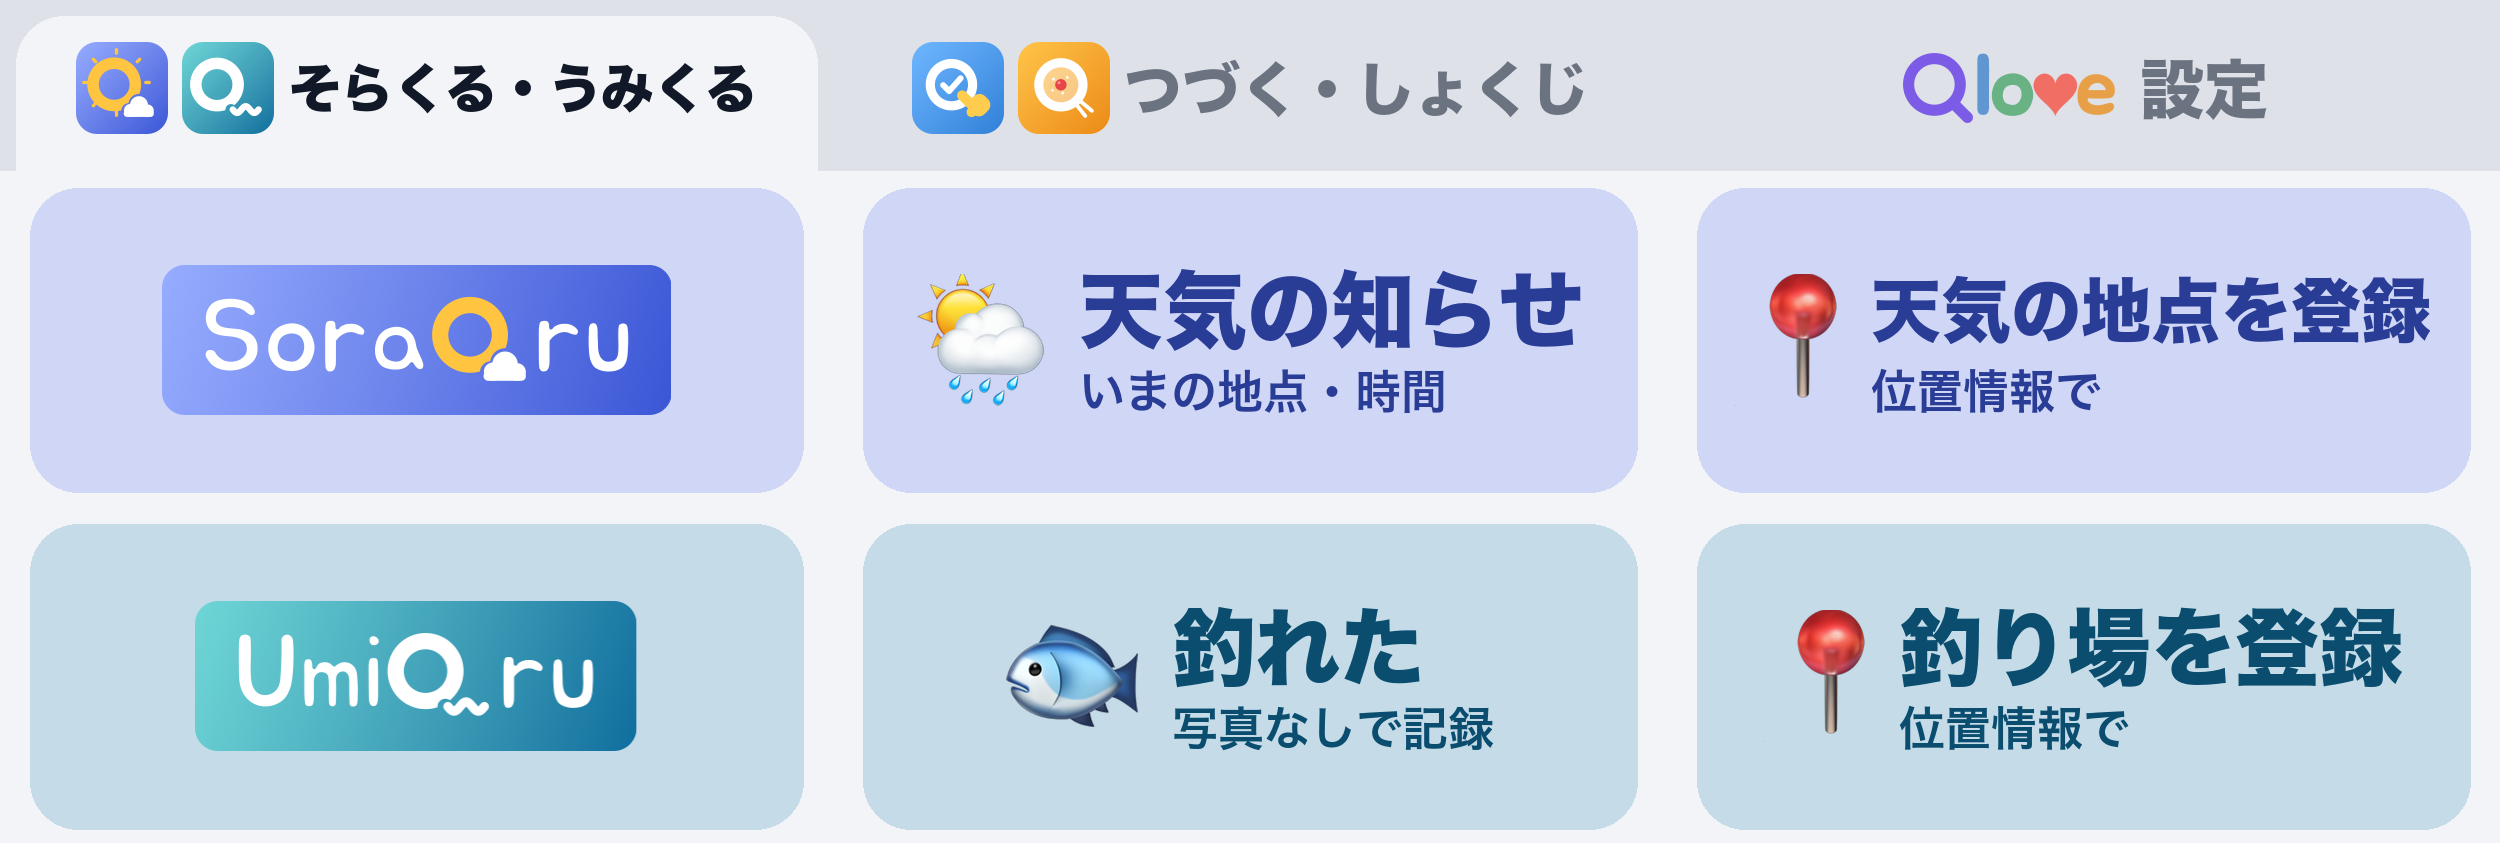
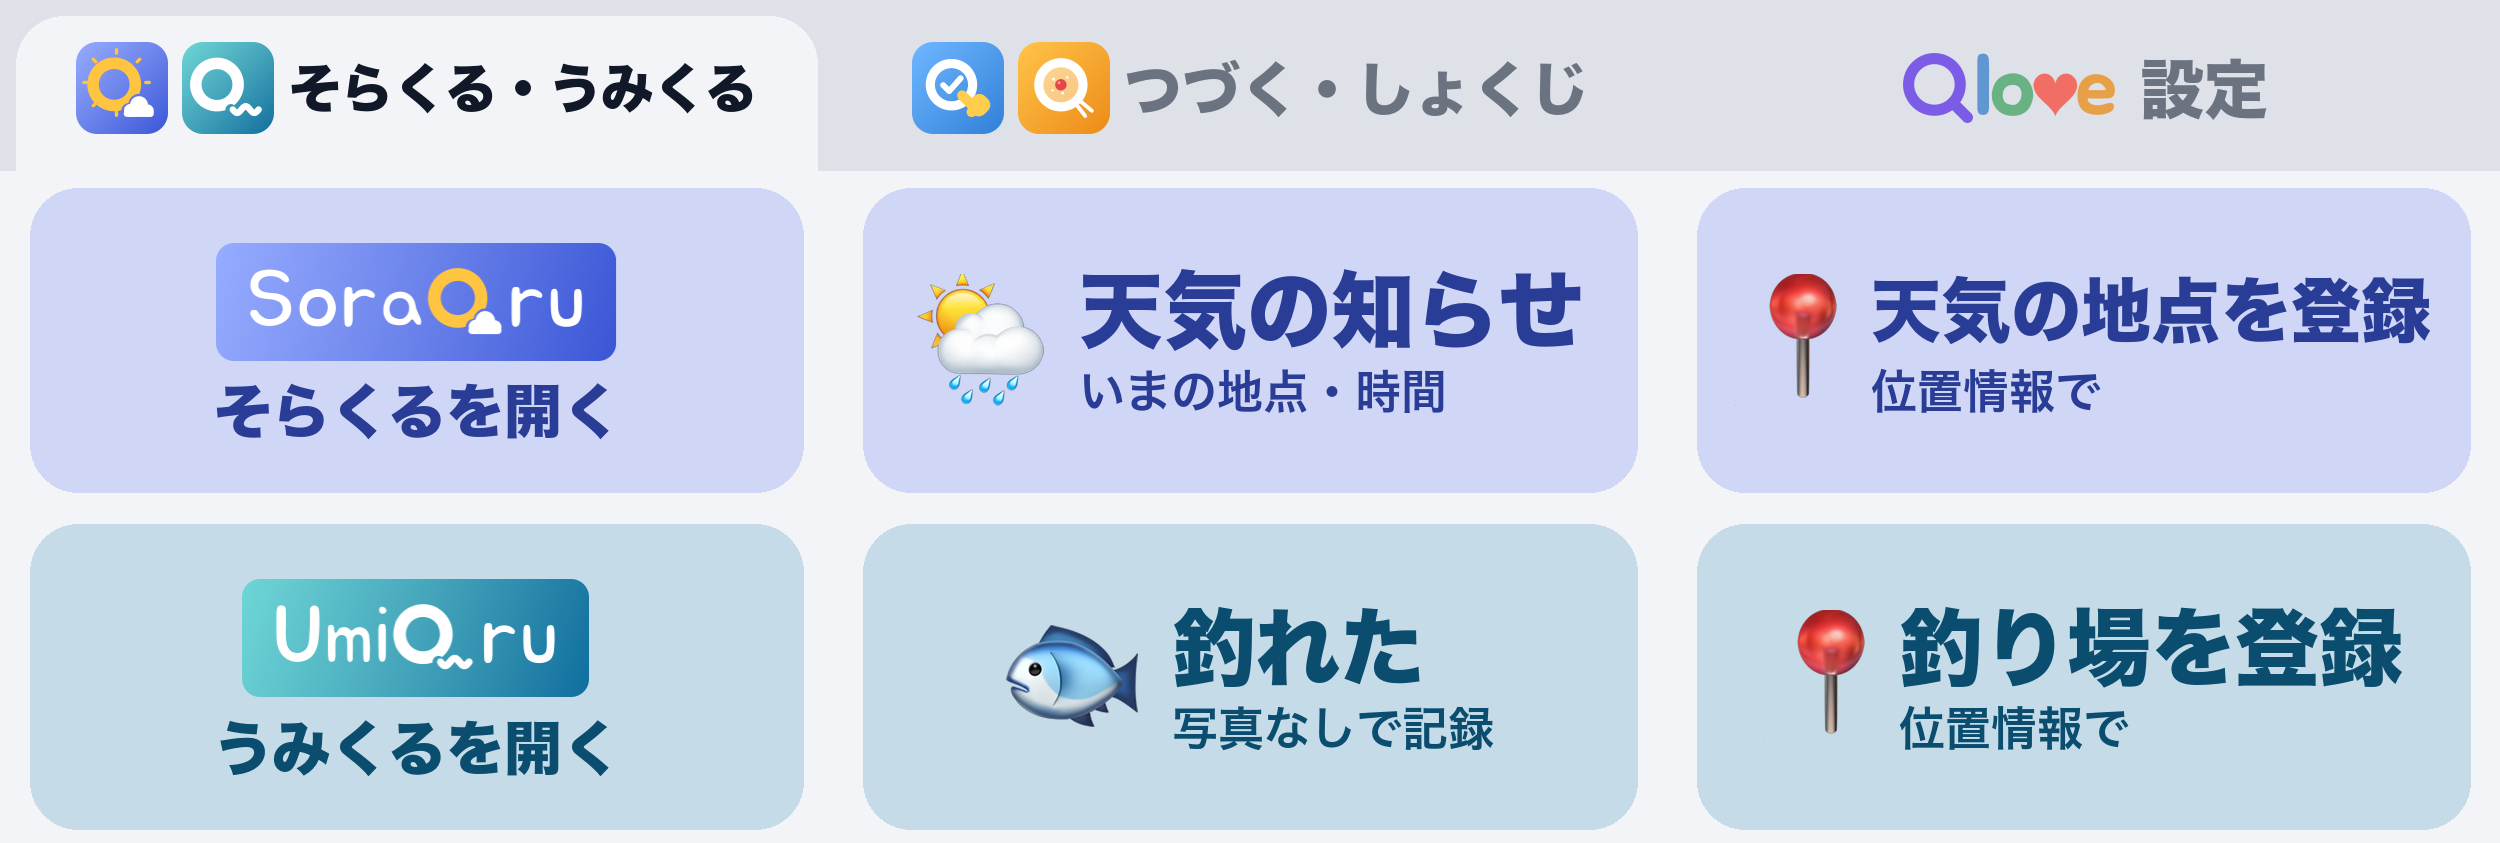
[update] くらぶボット：メニューのロゴに「○○を開く」を添え、つづく・しょくじのロゴを大きく

Changed region(s): [[0.0624, 0.2776, 0.2808, 0.5243], [0.0624, 0.6785, 0.2808, 0.9253]]

diff --git a/tools/richmenu.py b/tools/richmenu.py
@@ -138,19 +138,21 @@ def draw3(name, active, buttons):
         d.rounded_rectangle(box, radius=48, fill=PALE(APP[app]))
         if isinstance(ch, Path):
             # 絵文字のかわりにアプリの横長のロゴ（上）と、題・小さい字（下）
-            logo = svg(ch, 120)
-            if logo.width > pw - 160:
-                logo = logo.resize((int(pw - 160), int(logo.height * (pw - 160) / logo.width)), Image.LANCZOS)
-            img.alpha_composite(logo, (int(cx - logo.width / 2), int(top + 150 - logo.height / 2)))
+            logo = svg(ch, 175)
+            if logo.width > pw - 120:
+                logo = logo.resize((int(pw - 120), int(logo.height * (pw - 120) / logo.width)), Image.LANCZOS)
+            img.alpha_composite(logo, (int(cx - logo.width / 2), int(top + 165 - logo.height / 2)))
             d.text((cx, top + 380), title, font=fit(d, title, 8, 104, pw - 72 - 180), fill=DEEP(APP[app]), anchor="mm")
             d.text((cx, top + 500), sub, font=HIRA(6, 60), fill=DEEP(APP[app]), anchor="mm")
             continue
         if ch == "logo":
-            # アプリの横長のロゴ（押すとアプリが開く）
-            logo = svg(title, 150)
-            if logo.width > pw - 140:
-                logo = logo.resize((int(pw - 140), int(logo.height * (pw - 140) / logo.width)), Image.LANCZOS)
-            img.alpha_composite(logo, (int(cx - logo.width / 2), int((box[1] + box[3]) / 2 - logo.height / 2)))
+            # アプリの横長のロゴ（押すとアプリが開く）と、その下に「○○を開く」（ロゴだけだと、押すと何が起きるかわからない）
+            logo = svg(title, 118)
+            if logo.width > pw - 160:
+                logo = logo.resize((int(pw - 160), int(logo.height * (pw - 160) / logo.width)), Image.LANCZOS)
+            mid = (box[1] + box[3]) / 2
+            img.alpha_composite(logo, (int(cx - logo.width / 2), int(mid - 38 - logo.height / 2)))
+            d.text((cx, mid + 70), sub, font=HIRA(8, 58), fill=DEEP(APP[app]), anchor="mm")
             continue
         ink = DEEP(APP[app])
         if rows == 1:
@@ -249,10 +251,10 @@ def draw(name, light, dark, tabs, active, buttons):
 
 # 3つのタブ：(名前, 選んでいるタブ, ボタン [(絵文字, 題, 小さい字, アプリ)])。並びは機能の richMenu.areas・pages をつないだもの
 MENUS3 = [
-    # 1段ずつ：アプリの横長のロゴ（開く）・知らせ／釣れた・地点の登録（機能の richMenu.tab3）。("logo", ロゴ, "", アプリ)
+    # 1段ずつ：アプリの横長のロゴ（開く）・知らせ／釣れた・地点の登録（機能の richMenu.tab3）。("logo", ロゴ, 下の字, アプリ)
     ("3-outdoor", 0, [
-        ("logo", SORAQRU_LOGO, "", "soraqru"), ("🌦", "天気の知らせ", "いまの地点・時間", "soraqru"), ("📍", "天気の地点を登録", "位置情報で", "soraqru"),
-        ("logo", UMIQRU_LOGO, "", "umiqru"), ("🐟", "釣れた", "写真なしで記録", "umiqru"), ("📍", "釣り場を登録", "位置情報で", "umiqru"),
+        ("logo", SORAQRU_LOGO, "そらくるを開く", "soraqru"), ("🌦", "天気の知らせ", "いまの地点・時間", "soraqru"), ("📍", "天気の地点を登録", "位置情報で", "soraqru"),
+        ("logo", UMIQRU_LOGO, "うみくるを開く", "umiqru"), ("🐟", "釣れた", "写真なしで記録", "umiqru"), ("📍", "釣り場を登録", "位置情報で", "umiqru"),
     ]),
     # つづく・しょくじは、記録のページへ行くボタンだけ（機能の richMenu.pages）
     # 並び：つづくの記録・しょくじの記録・きょうの集計。記録の2つは絵文字のかわりにアプリの横長のロゴ

diff --git a/README.md b/README.md
@@ -47,7 +47,7 @@
 ### 🎣 釣り（うみくる）だけの決まり
 
 - 釣った魚の写真を送ると「どこで釣った？」のクイックリプライ：前の釣り場（最近使った順に5つ）・📍 釣り場を登録（位置情報。地図のピンを動かしてほかの場所も送れる）。1回押すだけで記録できる
-- トークの下のメニュー：天気・釣り・しょくじ・記録がそろうボットは3つのタブ（そらくる・うみくる：1段ずつ アプリの横長のロゴ（開く）・天気の知らせ・天気の地点を登録／うみくるのロゴ・釣れた・釣り場を登録。つづく・しょくじ：つづくの記録・しょくじの記録・きょうの集計（記録の2つはアプリの横長のロゴ）。Qlove の設定：できること・つなぐ・使う人。ボタンの地はアプリのアイコンの色をうすく、字はその色を濃く。assets/richmenu-3-*.png。くらぶボットだけ ux.md の H6「2つまで」の例外）。そろわないときは2つのタブ（左がいちばん先の機能・右が Qlove）。釣りがいちばん先の機能なら、左のタブがうみくる（釣れた・釣り場・うみくるで見る。richmenu-sea.png）
+- トークの下のメニュー：天気・釣り・しょくじ・記録がそろうボットは3つのタブ（そらくる・うみくる：1段ずつ アプリの横長のロゴと「そらくるを開く」・天気の知らせ・天気の地点を登録／うみくるのロゴ・釣れた・釣り場を登録。つづく・しょくじ：つづくの記録・しょくじの記録・きょうの集計（記録の2つはアプリの横長のロゴ）。Qlove の設定：できること・つなぐ・使う人。ボタンの地はアプリのアイコンの色をうすく、字はその色を濃く。assets/richmenu-3-*.png。くらぶボットだけ ux.md の H6「2つまで」の例外）。そろわないときは2つのタブ（左がいちばん先の機能・右が Qlove）。釣りがいちばん先の機能なら、左のタブがうみくる（釣れた・釣り場・うみくるで見る。richmenu-sea.png）
 - 写真がなくても記録できる：「釣れた」「釣果」（「釣れた アジ」なら魚の名前も）と送るか、メニューの「🐟 釣れた（写真なし）」。時刻は送った・押した時刻で、あとは写真と同じ（どこで釣ったかを聞いて記録）。記録の印（messageId）は文のメッセージの番号、ボタンなら t＋時刻
 - 写真を受けるのは釣りだけ（しょくじの写真の機能はやめた。前に付けた写真の列 imageFileId・imageUrl はシートに残す）。1対1 のトークで、使える人の写真だけ
 - 時刻は「写真を送った時刻」（LINE で送った写真には、撮った時刻が残らないことが多い）。7日より前のボタンは受けない
